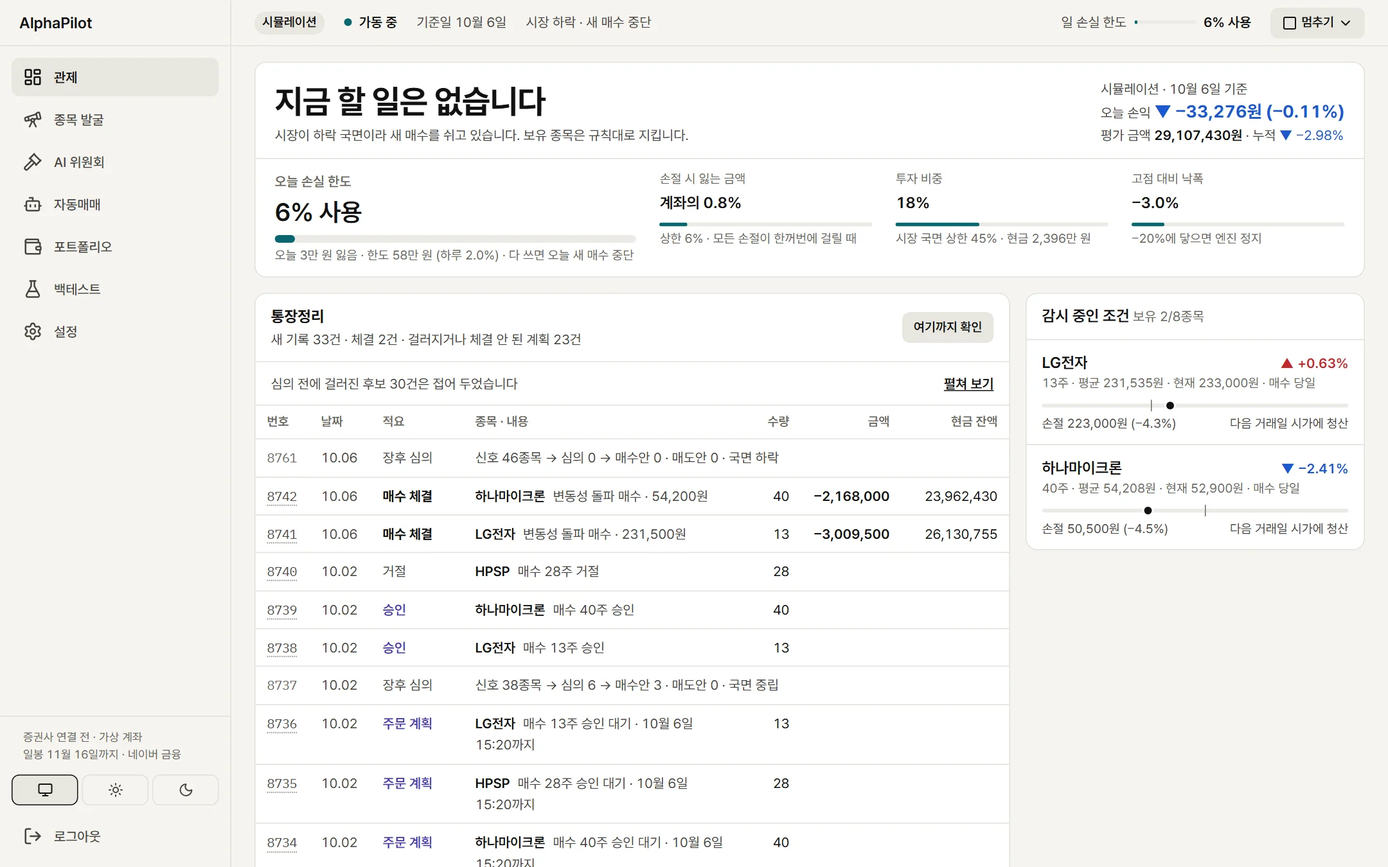
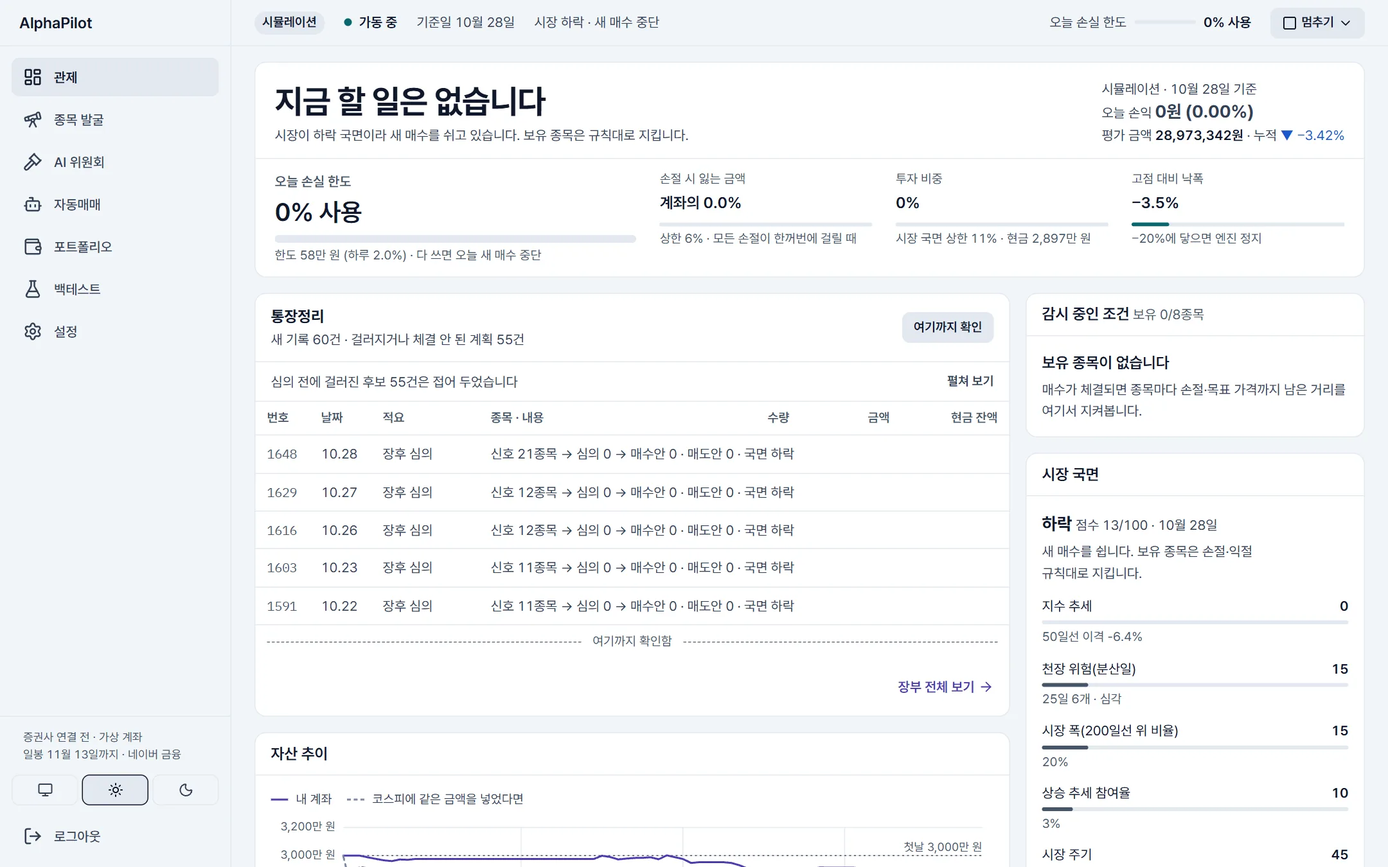
[시안] 다크 트레이딩 콘솔로 전체 디자인 개편
ui-ux-pro-max 1순위 추천(Dark Mode OLED, 밀도 8/10, 모션 2/10)을
로그인 뒤 화면 전체와 첫 화면에 적용한 시안. 결정과 이유는 DESIGN.md.

- 기본 테마를 어두운 남색 슬레이트로(#020617 바탕, #0e1223 패널).
  밝은 화면은 같은 슬레이트 계열의 선택지로 다시 잡음
- 밀도: 표 행 36px, 좁은 화면 패널 안 12px
- 수치 칸(Stat)과 표 숫자 칸(TDR)은 IBM Plex Mono
- 첫 화면: 다크 3D 기둥을 data-2로 낮춤, 관제 화면 캡처 4장 다시 찍음, 파비콘 색
- 탭 줄에 생기던 작은 세로 스크롤바 제거
- 쓰지 않은 추천: 초록 상승색·초록 CTA·글로우·스크롤 등장 모션·Fira CDN
- 대비 계산: 다크·라이트 모두 통과(라이트 data-2만 #7c8aa3로 조정)
- impeccable 훅: 데모 빌드의 포커스 링 오탐 1건을 그 파일에만 무시 처리

diff --git a/frontend/src/styles/tokens.css b/frontend/src/styles/tokens.css
@@ -1,22 +1,72 @@
 /* AlphaPilot tokens.css — Universal Design DNA 토큰(이름과 역할 고정)에 프로젝트가 정한 값만 바꿨다.
-   바꾼 것: accent 계열(보라), 가격 방향 색 추가. 근거는 DESIGN.md. 다크는 [data-theme="dark"] 한 곳. */
-:root, [data-theme="light"] {
-  --canvas: #f5f4f0;
+   바꾼 것: 기본 테마(다크 남색 슬레이트), accent 계열(보라), 가격 방향 색 추가. 근거는 DESIGN.md. */
+/* 2026-11-21 개편(ui-ux-pro-max "다크 트레이딩 콘솔"): 기본은 어두운 남색 슬레이트, 밝은 화면은 같은 슬레이트 계열의 선택지.
+   accent(보라)·가격 방향(상승 빨강·하락 파랑)·상태색의 역할은 그대로. 대비 계산은 DESIGN.md. */
+/* 기본 테마. data-theme이 없을 때(스크립트가 돌기 전)도 어두운 화면이다. */
+:root, [data-theme="dark"] {
+  --canvas: #020617;
+  --surface: #0e1223;
+  --surface-raised: #161c30;
+  --surface-sunken: #060a18;
+  --surface-inverse: #f8fafc;
+  --ink: #f8fafc;
+  --ink-secondary: #cbd5e1;
+  --ink-muted: #94a3b8;
+  --ink-inverse: #0f172a;
+  --border: #64748b;
+  --divider: #1e293b;
+  --primary: #f8fafc;
+  --primary-hover: #e2e8f0;
+  --on-primary: #0f172a;
+  --secondary: #1e293b;
+  --secondary-hover: #273449;
+  --accent: #b3a6ff;
+  --accent-hover: #cbc2ff;
+  --on-accent: #020617;
+  --accent-subtle: #1e1b4b;
+  --focus: var(--accent);
+  --success: #5bcbd0;
+  --success-subtle: #0a2a2d;
+  --warning: #f0b450;
+  --warning-subtle: #2a1f0d;
+  --danger: #ff8f80;
+  --danger-hover: #ffaa9e;
+  --on-danger: #020617;
+  --danger-subtle: #2e1418;
+  --info: var(--accent);
+  --info-subtle: var(--accent-subtle);
+  --scrim: rgba(2, 6, 23, 0.72);
+  --data-1: var(--accent);
+  --data-2: #7c8aa3;
+  --data-3: #334155;
+  --shadow-1: 0 1px 2px rgba(0, 0, 0, 0.5), 0 0 0 1px rgba(148, 163, 184, 0.06);
+  --shadow-2: 0 12px 32px -12px rgba(0, 0, 0, 0.75), 0 0 0 1px rgba(148, 163, 184, 0.08);
+  --shadow-3: 0 32px 80px -24px rgba(0, 0, 0, 0.85), 0 0 0 1px rgba(148, 163, 184, 0.1);
+  --up: #ff8a8a;
+  --up-solid: #e5484d;
+  --up-subtle: #341419;
+  --down: #8bb6ff;
+  --down-solid: #3b7bf0;
+  --down-subtle: #102349;
+}
+/* 밝은 화면(선택). :root와 특이도가 같아서 이 블록이 뒤에 와야 이긴다. */
+[data-theme="light"] {
+  --canvas: #f1f5f9;
   --surface: #ffffff;
   --surface-raised: #ffffff;
-  --surface-sunken: #ebeae5;
-  --surface-inverse: #121211;
-  --ink: #121211;
-  --ink-secondary: #47463f;
-  --ink-muted: #696862;
-  --ink-inverse: #f5f4f0;
-  --border: #8f8d86;
-  --divider: #e2e0da;
-  --primary: #121211;
-  --primary-hover: #34332f;
+  --surface-sunken: #e2e8f0;
+  --surface-inverse: #0f172a;
+  --ink: #0f172a;
+  --ink-secondary: #334155;
+  --ink-muted: #475569;
+  --ink-inverse: #f8fafc;
+  --border: #64748b;
+  --divider: #e2e8f0;
+  --primary: #0f172a;
+  --primary-hover: #1e293b;
   --on-primary: #ffffff;
-  --secondary: #e9e7e1;
-  --secondary-hover: #dddbd4;
+  --secondary: #e2e8f0;
+  --secondary-hover: #cbd5e1;
   --accent: #4b3bb0;
   --accent-hover: #3a2d8f;
   --on-accent: #ffffff;
@@ -32,13 +82,13 @@
   --danger-subtle: #fbe7e4;
   --info: var(--accent);
   --info-subtle: var(--accent-subtle);
-  --scrim: rgba(18, 18, 17, 0.48);
+  --scrim: rgba(15, 23, 42, 0.48);
   --data-1: var(--accent);
-  --data-2: #8f8d86;
-  --data-3: #c9c7c0;
-  --shadow-1: 0 1px 2px rgba(18, 18, 17, 0.06), 0 0 0 1px rgba(18, 18, 17, 0.04);
-  --shadow-2: 0 12px 32px -12px rgba(18, 18, 17, 0.2), 0 2px 6px rgba(18, 18, 17, 0.06);
-  --shadow-3: 0 32px 80px -24px rgba(18, 18, 17, 0.32), 0 4px 12px rgba(18, 18, 17, 0.08);
+  --data-2: #7c8aa3;
+  --data-3: #cbd5e1;
+  --shadow-1: 0 1px 2px rgba(15, 23, 42, 0.06), 0 0 0 1px rgba(15, 23, 42, 0.04);
+  --shadow-2: 0 12px 32px -12px rgba(15, 23, 42, 0.2), 0 2px 6px rgba(15, 23, 42, 0.06);
+  --shadow-3: 0 32px 80px -24px rgba(15, 23, 42, 0.32), 0 4px 12px rgba(15, 23, 42, 0.08);
   /* AlphaPilot 추가 토큰 — 가격 방향(국내 관례: 상승 빨강, 하락 파랑). 항상 ▲▼ 부호와 함께 쓴다. */
   --up: #c2272b;
   --up-solid: #d9363a;
@@ -46,52 +96,6 @@
   --down: #1d58d0;
   --down-solid: #2f6fed;
   --down-subtle: #eaf1fe;
-}
-[data-theme="dark"] {
-  --canvas: #0e0e0d;
-  --surface: #161615;
-  --surface-raised: #201f1e;
-  --surface-sunken: #080808;
-  --surface-inverse: #f5f4f0;
-  --ink: #edece8;
-  --ink-secondary: #bebcb5;
-  --ink-muted: #96948d;
-  --ink-inverse: #121211;
-  --border: #6f6d67;
-  --divider: #2b2a28;
-  --primary: #edece8;
-  --primary-hover: #d6d4ce;
-  --on-primary: #121211;
-  --secondary: #272624;
-  --secondary-hover: #302f2c;
-  --accent: #b3a6ff;
-  --accent-hover: #cbc2ff;
-  --on-accent: #0e0e0d;
-  --accent-subtle: #221d47;
-  --focus: var(--accent);
-  --success: #55c4c9;
-  --success-subtle: #0f2627;
-  --warning: #f0b450;
-  --warning-subtle: #2c2110;
-  --danger: #ff8f80;
-  --danger-hover: #ffaa9e;
-  --on-danger: #121211;
-  --danger-subtle: #331714;
-  --info: var(--accent);
-  --info-subtle: var(--accent-subtle);
-  --scrim: rgba(0, 0, 0, 0.64);
-  --data-1: var(--accent);
-  --data-2: #7d7b75;
-  --data-3: #4a4945;
-  --shadow-1: 0 1px 2px rgba(0, 0, 0, 0.4), 0 0 0 1px rgba(255, 255, 255, 0.04);
-  --shadow-2: 0 12px 32px -12px rgba(0, 0, 0, 0.7), 0 0 0 1px rgba(255, 255, 255, 0.06);
-  --shadow-3: 0 32px 80px -24px rgba(0, 0, 0, 0.8), 0 0 0 1px rgba(255, 255, 255, 0.08);
-  --up: #ff8a8a;
-  --up-solid: #e5484d;
-  --up-subtle: #3a1618;
-  --down: #8bb6ff;
-  --down-solid: #3b7bf0;
-  --down-subtle: #13264a;
 }
 :root {
   --space-1: 4px;

diff --git a/frontend/src/components/ui.tsx b/frontend/src/components/ui.tsx
@@ -117,12 +117,12 @@ export function Panel({ title, actions, children, className, bodyClassName }: { 
   return (
     <section className={cx("rounded-lg border border-divider bg-surface", className)}>
       {(title || actions) && (
-        <header className="flex min-h-12 flex-wrap items-center justify-between gap-2 border-b border-divider px-4 py-2">
+        <header className="flex min-h-11 flex-wrap items-center justify-between gap-2 border-b border-divider px-3 py-1.5 sm:px-4">
           {title && <h2 className="text-h6 font-semibold text-ink">{title}</h2>}
           {actions && <div className="flex flex-wrap items-center gap-2">{actions}</div>}
         </header>
       )}
-      <div className={bodyClassName ?? "p-4"}>{children}</div>
+      <div className={bodyClassName ?? "p-3 sm:p-4"}>{children}</div>
     </section>
   );
 }
@@ -144,7 +144,7 @@ export function Stat({ label, children, hint }: { label: string; children: React
   return (
     <div className="min-w-0 border-t border-ink pt-2">
       <dt className="text-label font-medium text-ink-muted">{label}</dt>
-      <dd className="num mt-1 text-h5 font-semibold text-ink">{children}</dd>
+      <dd className="num mt-1 font-mono text-h5 font-medium tracking-tight text-ink">{children}</dd>
       {hint && <dd className="num text-caption text-ink-muted">{hint}</dd>}
     </div>
   );
@@ -329,7 +329,7 @@ export function Tabs<T extends string>({ value, onChange, items, label }: { valu
   };
   return (
     // 좁은 화면(375px)에서도 탭 다섯 개가 한 줄에 다 보이도록 간격을 줄인다(글자 사이는 글자 둘레 여백까지 16px)
-    <div role="tablist" aria-label={label} className="flex max-w-full gap-2 overflow-x-auto border-b border-divider sm:gap-6">
+    <div role="tablist" aria-label={label} className="flex max-w-full gap-2 overflow-x-auto border-b border-divider [scrollbar-width:none] sm:gap-6">
       {items.map((item, index) => {
         const selected = item.value === value;
         return (
@@ -423,7 +423,8 @@ export function Modal({ open, onOpenChange, title, description, children, wide =
 
 // ── 표 공용 클래스(세로선·줄무늬 없이 헤어라인 행 구분, 숫자는 오른쪽 정렬) ──
 
-export const TH = "h-10 border-b border-border px-3 text-left text-label font-medium whitespace-nowrap text-ink-muted";
-export const TD = "h-10 border-b border-divider px-3 py-2 text-body-sm text-ink";
-export const TDR = `${TD} num text-right whitespace-nowrap`;
+// 다크 트레이딩 콘솔 밀도(2026-11-21): 표 행 36px. 숫자 칸은 IBM Plex Mono로 자릿수를 세로로 맞춘다.
+export const TH = "h-9 border-b border-border px-3 text-left text-label font-medium whitespace-nowrap text-ink-muted";
+export const TD = "h-9 border-b border-divider px-3 py-1.5 text-body-sm text-ink";
+export const TDR = "h-9 border-b border-divider px-3 py-1.5 num font-mono text-data text-right whitespace-nowrap text-ink";
 export const THR = `${TH} text-right`;

diff --git a/frontend/src/lib/theme.ts b/frontend/src/lib/theme.ts
@@ -1,20 +1,21 @@
-/** 밝은·어두운 화면. 기본은 기기 설정을 따르고, 고르면 그 브라우저에만 기억한다.
- *  다크 토큰은 [data-theme="dark"] 한 곳에만 있으므로, 기기 설정을 따를 때도 <html>에 data-theme을 직접 적는다. */
+/** 밝은·어두운 화면. 기본은 어두운 화면(2026-11-21 다크 트레이딩 콘솔 개편)이고, 고르면 그 브라우저에만 기억한다.
+ *  '기기 설정'을 고르면 기기의 밝기 설정을 따른다. <html>에는 항상 data-theme을 직접 적는다. */
 
 import { useEffect, useState } from "react";
 
 export type ThemeChoice = "system" | "light" | "dark";
 const KEY = "ap-theme";
 const EVENT = "ap-theme-change";
+const DEFAULT: ThemeChoice = "dark";
 
 export function getTheme(): ThemeChoice {
   try {
     const saved = window.localStorage.getItem(KEY);
-    if (saved === "light" || saved === "dark") return saved;
+    if (saved === "light" || saved === "dark" || saved === "system") return saved;
   } catch {
-    /* 저장소를 못 쓰는 환경에서는 기기 설정을 따른다 */
+    /* 저장소를 못 쓰는 환경에서는 기본(어두운 화면)을 쓴다 */
   }
-  return "system";
+  return DEFAULT;
 }
 
 /** 지금 실제로 적용되는 테마. */
@@ -32,7 +33,7 @@ function paint(choice: ThemeChoice): void {
 export function applyTheme(choice: ThemeChoice): void {
   paint(choice);
   try {
-    if (choice === "system") window.localStorage.removeItem(KEY);
+    if (choice === DEFAULT) window.localStorage.removeItem(KEY);
     else window.localStorage.setItem(KEY, choice);
   } catch {
     /* 기억하지 못해도 이번 화면에는 적용된다 */
@@ -40,7 +41,7 @@ export function applyTheme(choice: ThemeChoice): void {
   window.dispatchEvent(new Event(EVENT));
 }
 
-/** 앱을 켤 때 한 번 부른다. 기기 설정이 바뀌면(그리고 사용자가 직접 고르지 않았으면) 따라 바뀐다. */
+/** 앱을 켤 때 한 번 부른다. '기기 설정'을 고른 경우에만 기기 설정이 바뀔 때 따라 바뀐다. */
 export function watchSystemTheme(): void {
   paint(getTheme());
   window.matchMedia("(prefers-color-scheme: dark)").addEventListener("change", () => {

diff --git a/frontend/src/features/landing/FunnelScene.ts b/frontend/src/features/landing/FunnelScene.ts
@@ -181,7 +181,8 @@ export async function mountFunnel(canvas: HTMLCanvasElement, options: Options): 
   const palette = { ink: new THREE.Color(), dropped: new THREE.Color(), accent: new THREE.Color() };
   let dirty = true;
   const refreshColors = () => {
-    palette.ink.copy(tokenColor("--ink-secondary"));
+    // 다크(남색 바탕)에서 ink-secondary 기둥은 빛을 받아 거의 흰색으로 떠서, 차트 비교색과 같은 회청색(data-2)을 쓴다(2026-11-21)
+    palette.ink.copy(tokenColor(document.documentElement.dataset.theme === "dark" ? "--data-2" : "--ink-secondary"));
     palette.dropped.copy(tokenColor("--data-3"));
     palette.accent.copy(tokenColor("--accent"));
     fog.color.copy(tokenColor("--canvas"));

diff --git a/frontend/index.html b/frontend/index.html
@@ -1,11 +1,10 @@
 <!doctype html>
-<html lang="ko">
+<html lang="ko" data-theme="dark">
   <head>
     <meta charset="UTF-8" />
     <meta name="viewport" content="width=device-width, initial-scale=1, viewport-fit=cover" />
-    <meta name="color-scheme" content="light dark" />
-    <meta name="theme-color" content="#f5f4f0" media="(prefers-color-scheme: light)" />
-    <meta name="theme-color" content="#0e0e0d" media="(prefers-color-scheme: dark)" />
+    <meta name="color-scheme" content="dark light" />
+    <meta name="theme-color" content="#020617" />
     <meta name="robots" content="noindex, nofollow" />
     <link rel="icon" type="image/svg+xml" href="/favicon.svg" />
     <title>AlphaPilot · 자동매매 관제</title>

diff --git a/frontend/src/features/landing/Landing.tsx b/frontend/src/features/landing/Landing.tsx
@@ -452,7 +452,7 @@ function Product() {
               height={1350}
               loading="lazy"
               decoding="async"
-              alt="관제 화면: 오늘 판정, 승인을 기다리는 주문 계획, 보유 종목, 장부가 한 화면에 있다. 시뮬레이션 데이터로 찍었다."
+              alt="관제 화면: 오늘 판정, 손실 한도와 투자 비중 계기, 통장정리(장부), 감시 중인 조건, 시장 국면이 한 화면에 있다. 시뮬레이션 데이터로 찍었다."
               className="block h-auto w-full"
             />
           </picture>

diff --git a/DESIGN.md b/DESIGN.md
@@ -1,28 +1,28 @@
 ---
 name: AlphaPilot
-description: 국내 주식 자동매매 관제 — 엔진이 한 일과 안 한 일을 통장처럼 한 줄씩 적는 화면
+description: 국내 주식 자동매매 관제 — 엔진이 한 일과 안 한 일을 통장처럼 한 줄씩 적는 화면. 기본은 다크 트레이딩 콘솔(남색 슬레이트)
 colors:
-  canvas: "#f5f4f0"
-  surface: "#ffffff"
-  surface-sunken: "#ebeae5"
-  surface-inverse: "#121211"
-  ink: "#121211"
-  ink-secondary: "#47463f"
-  ink-muted: "#696862"
-  border: "#8f8d86"
-  divider: "#e2e0da"
-  primary: "#121211"
-  on-primary: "#ffffff"
-  secondary: "#e9e7e1"
-  accent: "#4b3bb0"
-  accent-subtle: "#ecebfa"
-  success: "#08676f"
-  warning: "#875200"
-  danger: "#b3261e"
-  up: "#c2272b"
-  up-solid: "#d9363a"
-  down: "#1d58d0"
-  down-solid: "#2f6fed"
+  canvas: "#020617"
+  surface: "#0e1223"
+  surface-sunken: "#060a18"
+  surface-inverse: "#f8fafc"
+  ink: "#f8fafc"
+  ink-secondary: "#cbd5e1"
+  ink-muted: "#94a3b8"
+  border: "#64748b"
+  divider: "#1e293b"
+  primary: "#f8fafc"
+  on-primary: "#0f172a"
+  secondary: "#1e293b"
+  accent: "#b3a6ff"
+  accent-subtle: "#1e1b4b"
+  success: "#5bcbd0"
+  warning: "#f0b450"
+  danger: "#ff8f80"
+  up: "#ff8a8a"
+  up-solid: "#e5484d"
+  down: "#8bb6ff"
+  down-solid: "#3b7bf0"
 typography:
   page-title:
     fontFamily: "Pretendard Variable, Pretendard, Apple SD Gothic Neo, Malgun Gothic, sans-serif"
@@ -109,7 +109,8 @@ components:
 바탕은 **Universal Design DNA**다(원본: https://claude.ai/artifact/LuwWSFPxRTpsb7DqRxL9xS, 스킬 `universal-design-intelligence`). 원칙·토큰 이름과 역할·상태 규칙·접근성 기준·품질 게이트는 그대로 따르고, 이 문서에는 **이 프로젝트가 다르게 정한 것만** 적는다. 로그인한 뒤의 화면은 모두 Utility 레이어다: 높은 정보 밀도, 일관된 부품, 빠른 피드백, 장식 모션 없음. 로그인 전 첫 화면 하나만 Brand 레이어다(아래 "첫 화면").
 
 **Key Characteristics:**
-- 잉크와 종이. 색은 뜻이 있을 때만: 계획(보라), 가격 방향(빨강·파랑), 상태(청록·호박·적색).
+- 다크 트레이딩 콘솔(2026-11-21부터 기본): 남색 슬레이트 바탕, 촘촘한 표, 고정폭 숫자. 밝은 화면은 같은 슬레이트 계열의 선택지다.
+- 색은 뜻이 있을 때만: 계획(보라), 가격 방향(빨강·파랑), 상태(청록·호박·적색).
 - 화면의 첫 줄은 "지금 내가 끼어들어야 하나"에 대한 답이다. 손익은 그다음이다.
 - 숫자에는 출처를 붙인다(시뮬레이션·백테스트·모의투자·실전).
 
@@ -123,15 +124,20 @@ components:
 | 반경 | 기본 그대로(8·12·20) | 정밀한 데이터 제품 |
 | 밀도 | 페이지 제목을 `heading-2`(34px, 좁은 화면 26px)로 한 단계 낮춤. 본문 `body-sm` 14/1.6. 표는 compact(40px) | 한 화면에 표와 계기가 함께 있는 관제 화면이라 44px 제목은 본문을 밀어낸다 |
 | 경험 레이어 | 로그인 전 첫 화면만 Brand, 로그인한 뒤의 모든 주소는 Utility | 3D와 스크롤 연출은 첫 화면에만 둔다. 관제·설정 같은 화면에는 넣지 않는다 |
+| 기본 테마 (2026-11-21) | **다크 트레이딩 콘솔**. 처음 열면 어두운 화면, 사이드바에서 밝게·기기 설정을 고를 수 있다(고른 값은 그 브라우저에만 기억) | 사용자가 ui-ux-pro-max로 전체 디자인을 요청했고, 그 1순위 추천(Dark Mode OLED, 밀도 8/10, 모션 2/10)을 골랐다. 장 마감 뒤 오래 보는 관제 화면이다 |
+| 팔레트 (2026-11-21) | 다크: 바탕 `#020617`, 표면 `#0e1223`, 떠 있는 표면 `#161c30`, 구분선 `#1e293b`, 경계 `#64748b`, 글자 `#f8fafc`·`#cbd5e1`·`#94a3b8`. 라이트: 바탕 `#f1f5f9`, 표면 `#ffffff`, 글자 `#0f172a`·`#334155`·`#475569`, 경계 `#64748b`. 예전 따뜻한 종이색(`#f5f4f0`)은 쓰지 않는다 | 추천 팔레트(남색·슬레이트)를 토큰 역할에 맞춰 넣었다. accent·가격·상태색의 역할은 그대로 |
+| 밀도 (2026-11-21) | 표 행 40 → 36px. 패널 안 여백은 좁은 화면 12px, 넓은 화면 16px. 패널 머리 44px | 밀도 8/10. 손가락으로 누르는 대상은 그대로 44px 이상(`tap`) |
+| 숫자 서체 (2026-11-21) | 수치 칸(`Stat` 값)과 표의 숫자 칸(`TDR`)은 IBM Plex Mono 500. 문장 속 숫자는 Pretendard 고정폭 숫자(`num`) 그대로 | 추천의 데이터용 고정폭 서체(Fira Code)를 이미 넣어 둔 IBM Plex Mono로 대신했다. 한글·'원'은 Pretendard로 이어진다. 600 굵기 파일이 없어 굵은 고정폭은 쓰지 않는다 |
+| 쓰지 않은 추천 (2026-11-21) | 초록 상승색, 초록 CTA, 텍스트 글로우, 스크롤 등장 모션, Fira Code·Fira Sans(구글 글꼴 CDN) | 국내 관례는 상승 빨강·하락 파랑이다. 버튼은 잉크만 채운다. 글로우·장식 모션은 Anti AI-Slop·Utility 레이어 규칙에 걸린다. Fira에는 한글이 없고 외부 CDN을 쓰지 않는다 |
 
-대비는 계산으로 확인했다(라이트 / 다크): accent 글자 8.2:1 / 8.5:1(surface 위), accent 위 글자 8.2:1 / 9.0:1, `up` 5.8:1 / 8.0:1, `down` 6.3:1 / 8.8:1, accent-subtle 위 잉크 15.9:1 / 13.3:1.
+대비는 계산으로 확인했다(다크 / 라이트, 2026-11-21 팔레트, surface 위): 본문 글자 17.8:1 / 17.9:1, 보조 글자(`ink-muted`) 7.3:1 / 7.6:1, 입력 경계 3.9:1 / 4.8:1, accent 글자 8.7:1 / 8.2:1, `up` 8.2:1 / 5.8:1, `down` 9.1:1 / 6.3:1, accent-subtle 위 잉크 15.3:1 / 15.2:1, 비교 차트선(`data-2`) 5.3:1 / 3.5:1. 라이트의 `data-2`는 처음 고른 `#94a3b8`이 2.6:1이라 `#7c8aa3`으로 바꿨다.
 
 ## Colors
 
-잉크와 종이가 기본이고, 색은 다섯 가지 일만 한다.
+남색 콘솔(다크, 기본)과 슬레이트 종이(라이트)가 바탕이고, 색은 다섯 가지 일만 한다. 아래 값은 라이트 / 다크 순서다.
 
 ### Primary
-- **잉크** (`#121211`, 다크 `#edece8`): 본문·제목, 그리고 **주 행동 버튼의 채움**. 승인·저장·실행은 모두 잉크다.
+- **잉크** (`#0f172a`, 다크 `#f8fafc`): 본문·제목, 그리고 **주 행동 버튼의 채움**. 승인·저장·실행은 모두 잉크다(다크에서는 밝은 단추가 된다).
 
 ### Secondary
 - **계획 보라** (accent `#4b3bb0`): 링크, 포커스 링, 선택된 컨트롤, 그리고 **아직 일어나지 않은 계획**(승인 대기 카드의 옅은 바탕 `accent-subtle`, 장부의 "주문 계획"·"승인" 적요, 차트의 계획 가격선, 내 계좌 추이선).
@@ -140,9 +146,9 @@ components:
 - **상승 빨강 / 하락 파랑** (`up` `#c2272b` / `down` `#1d58d0`): 가격·손익의 방향에만. 항상 ▲▼나 +− 부호와 함께 쓴다. 매수·매도 배지도 이 색이다.
 
 ### Neutral
-- **종이** (canvas `#f5f4f0`): 페이지 바탕과 내비·상태 띠. 순백을 바탕으로 쓰지 않는다.
-- **표면** (surface `#ffffff`): 패널과 입력. **가라앉은 표면** (`#ebeae5`): 계기 트랙, 선택된 항목, 스켈레톤.
-- **경계** (border `#8f8d86`, 3:1): 입력·토글·표 머리. **구분선** (divider `#e2e0da`): 패널 외곽선과 행 구분.
+- **바탕** (canvas `#f1f5f9`, 다크 `#020617`): 페이지 바탕과 내비·상태 띠. 순백·순흑을 바탕으로 쓰지 않는다.
+- **표면** (surface `#ffffff`, 다크 `#0e1223`): 패널과 입력. **가라앉은 표면** (`#e2e8f0`, 다크 `#060a18`): 계기 트랙, 선택된 항목, 스켈레톤.
+- **경계** (border `#64748b`, 3:1 이상): 입력·토글·표 머리. **구분선** (divider `#e2e8f0`, 다크 `#1e293b`): 패널 외곽선과 행 구분.
 - **상태**: 성공 `#08676f`, 주의 `#875200`, 위험 `#b3261e`. 옅은 `*-subtle` 바탕 위에는 잉크 글자를 쓰고, 항상 아이콘이나 단어가 함께 있다.
 
 ### Named Rules
@@ -187,12 +193,12 @@ components:
 | 형상 | 코드로 만든 형상(둥근 사각 기둥, 판, 선). 모델 파일(GLB) 없음 | 추상적인 도식이라 모델이 필요 없다 |
 | 진행 | 스크롤 진행률 하나(0~1) → 감쇠 → 모든 상태가 그 값의 함수. 무대는 화면 3장 분량만 고정 | 글이 "38종목이 통과했습니다"라고 할 때 장면도 그 상태에 멈춰 있도록, 글이 보이는 구간에서는 천천히 간다(`funnel.ts`의 `TRAVEL_KEYS`, 테스트로 고정) |
 | 재질·빛 | PBR 재질 + 환경광(RoomEnvironment) + 방향광 둘. 그림자 맵·후처리 없음. 바닥 반사는 뒤집은 기둥을 높이에 따라 옅게 그린 것(셰이더 한 줄 수정) | 한 프레임 드로우콜 6, 삼각형 약 5만 |
-| 색 | 기둥 `ink-secondary`, 멈춘 것 `data-3`, 주문 계획 `accent`. 바탕은 투명 캔버스 뒤의 `canvas` 토큰 그대로, 안개도 같은 색 | accent는 여기서도 "계획"만 뜻한다 |
+| 색 | 기둥은 라이트 `ink-secondary`, 다크 `data-2`(남색 바탕에서 `ink-secondary`는 빛을 받아 거의 흰색으로 떠서, 2026-11-21), 멈춘 것 `data-3`, 주문 계획 `accent`. 바탕은 투명 캔버스 뒤의 `canvas` 토큰 그대로, 안개도 같은 색 | accent는 여기서도 "계획"만 뜻한다 |
 | 대체 화면 | 3D 묶음을 받는 동안: 같은 구도의 SVG. WebGL2 없음: 결과 전체가 보이는 SVG 정지 구도 + 단계 목록. 모션 줄이기·아주 낮은 화면(높이 560px 이하): 고정·스크롤 연출 없이 WebGL 정지 구도 한 장 + 단계 목록 | 어느 경우에도 같은 내용을 읽을 수 있다 |
 | 묶음 | three.js는 첫 화면에서만 따로 내려받는다(약 517KB, gzip 약 132KB). 로그인한 화면의 묶음에는 들어가지 않는다 | |
 | 등장 | 화면을 맨 위에서 처음 열 때 한 번: 기둥이 카메라 쪽 줄부터 바닥에서 올라온다(한 개 900ms, 시작 간격은 뒤로 갈수록 좁아져 전체 약 1.4초). 글은 제목 0ms·12px, 안내글 110ms·8px, 단추 190ms·6px(각 560ms). 관문·머리띠·바닥은 움직이지 않는다 | 첫 화면의 주인공은 장면과 제목이다. 단추는 보이는 순간부터 눌린다. 모션 줄이기에서는 전부 없다 |
 | 주문 계획 이름표 | 마지막 장면의 기둥 셋에 종목 이름과 수량(장부 8734~8736번 그대로). 관문 이름표와 겹치면 관문 쪽이 물러난다 | 추상적인 기둥이 실제 기록이라는 것을 보인다 |
-| 나머지 섹션 | 장부 표본(제품의 장부 표 부품에 시뮬레이션 장부 8734~8742번을 그대로) · 실제 관제 화면 캡처 · 안전 규칙 넷(반전 띠) · 백테스트 수치(불리한 것 그대로) · 로그인 | 꾸민 수치·후기·로고 없음. 섹션 등장 모션 없음. 장부 표본의 종목코드는 뺐다(로그인 전에는 종목 화면 링크를 만들지 않는다) |
+| 나머지 섹션 | 장부 표본(제품의 장부 표 부품에 시뮬레이션 장부 8734~8742번을 그대로) · 실제 관제 화면 캡처(2026-11-21 다크 콘솔로 다시 찍음, 규칙 위원회 시뮬레이션 10월 28일) · 안전 규칙 넷(반전 띠) · 백테스트 수치(불리한 것 그대로) · 로그인 | 꾸민 수치·후기·로고 없음. 섹션 등장 모션 없음. 장부 표본의 종목코드는 뺐다(로그인 전에는 종목 화면 링크를 만들지 않는다) |
 
 첫 화면에서도 지키는 것: 주 행동 버튼은 잉크(`primary`), 블러·유리·그라데이션 장식 없음(장면 아래 가장자리를 바탕색으로 푸는 띠 하나만 있다), 다크는 `[data-theme="dark"]`.
 
